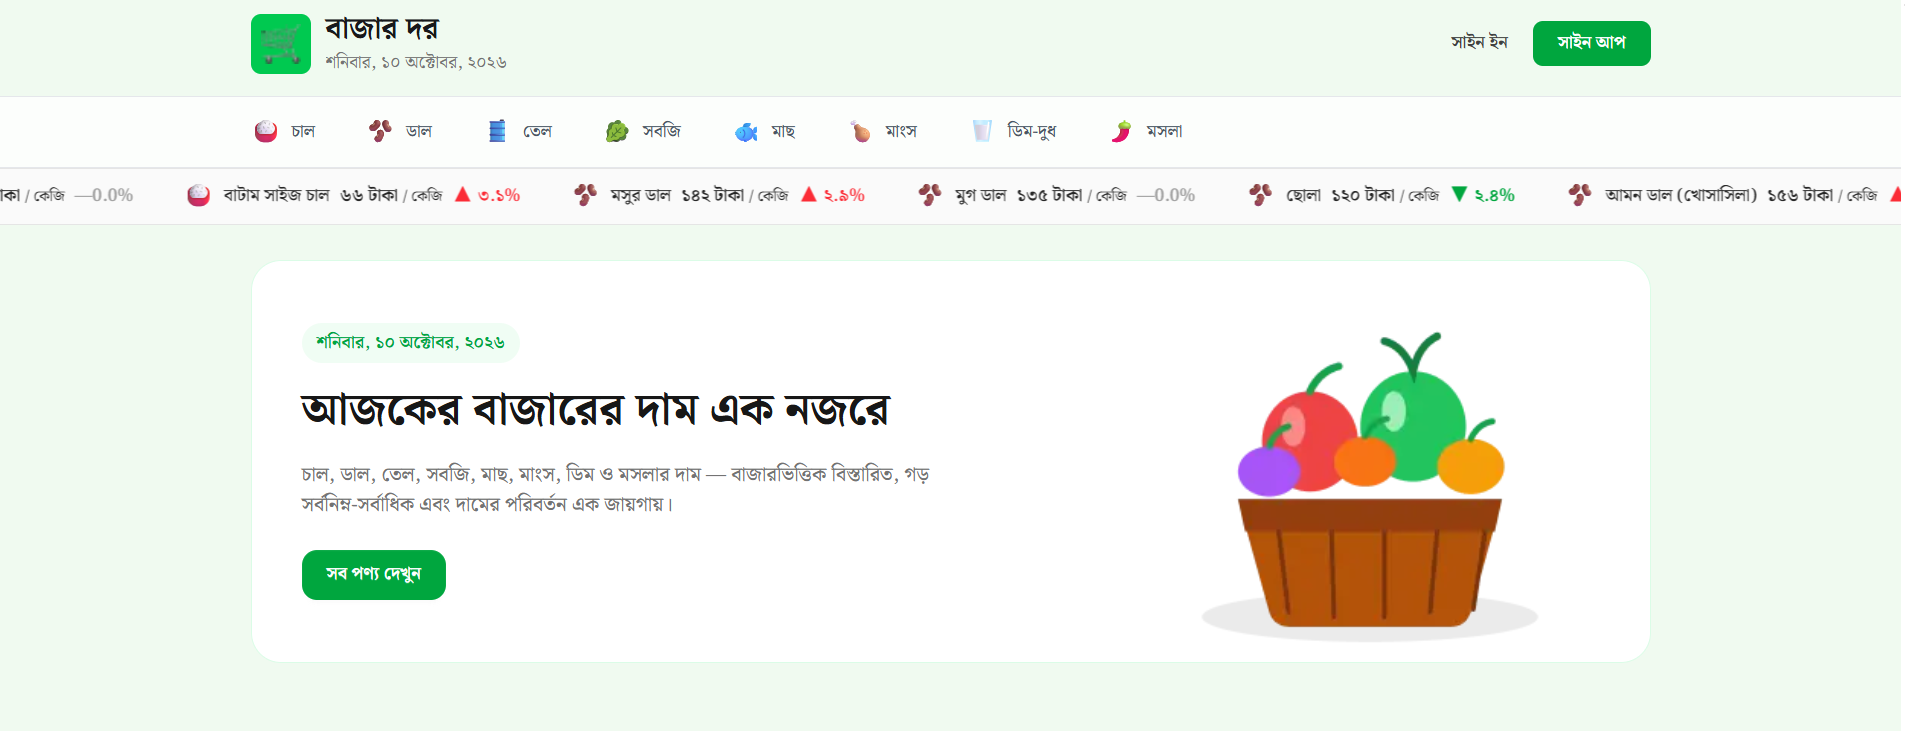
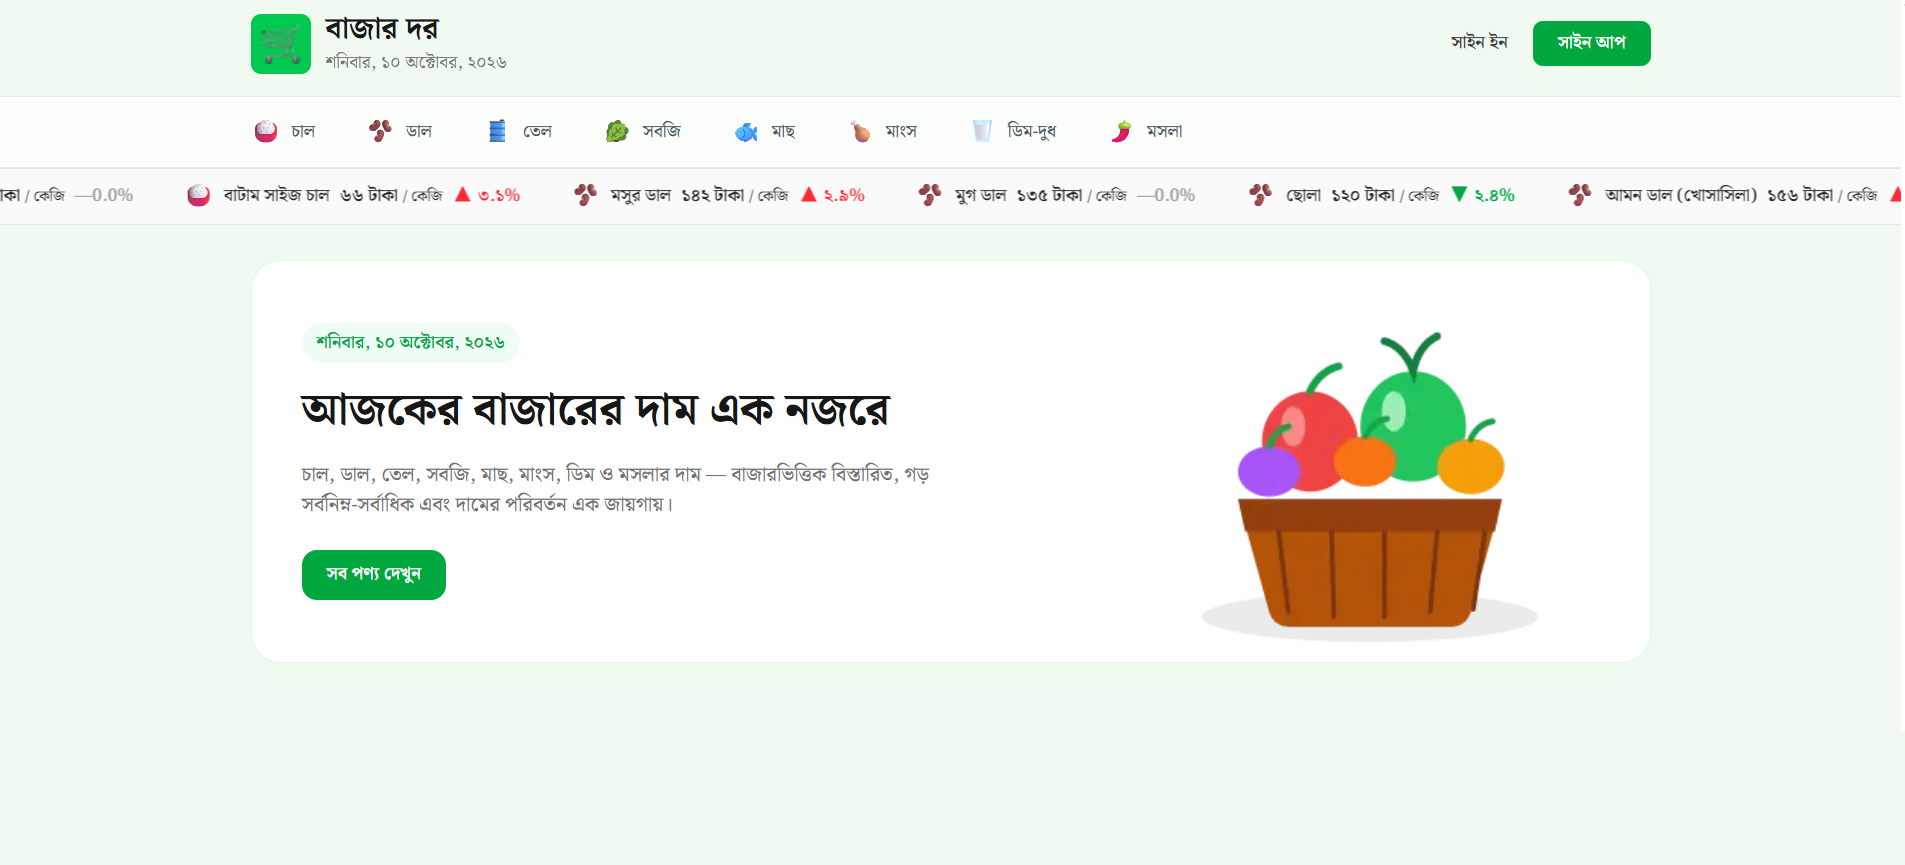
feat: harmonize background across all sections and align project card contents horizontally

diff --git a/src/app/layout.tsx b/src/app/layout.tsx
@@ -123,19 +123,22 @@ export default function RootLayout({
           <div className="absolute inset-0 bg-grid-tech" />
 
           {/* Secondary wide blueprint accent grid */}
-          <div className="absolute inset-0 bg-grid-fine opacity-80" />
+          <div className="absolute inset-0 bg-grid-fine opacity-90" />
 
           {/* Top Hero ambient radial flare */}
           <div className="absolute -top-36 left-1/2 -translate-x-1/2 w-[850px] h-[520px] bg-gradient-to-b from-blue/25 via-soft-blue/10 to-transparent blur-[120px] rounded-full" />
 
-          {/* Mid-page deep ambient glow spot (left) */}
-          <div className="absolute top-[38%] -left-48 w-[600px] h-[600px] bg-blue/[0.08] rounded-full blur-[140px]" />
+          {/* Mid-upper deep ambient glow spot (left) */}
+          <div className="absolute top-[28%] -left-48 w-[600px] h-[600px] bg-blue/[0.09] rounded-full blur-[140px]" />
 
-          {/* Lower-page deep ambient glow spot (right) */}
-          <div className="absolute top-[72%] -right-48 w-[600px] h-[600px] bg-soft-blue/[0.07] rounded-full blur-[140px]" />
+          {/* Mid-lower deep ambient glow spot (right) */}
+          <div className="absolute top-[60%] -right-48 w-[650px] h-[650px] bg-soft-blue/[0.08] rounded-full blur-[140px]" />
+
+          {/* Lower deep ambient glow spot (bottom center) */}
+          <div className="absolute -bottom-24 left-1/2 -translate-x-1/2 w-[700px] h-[400px] bg-gradient-to-t from-blue/15 via-soft-blue/5 to-transparent blur-[120px] rounded-full" />
 
           {/* Subtle perimeter vignette for depth */}
-          <div className="absolute inset-0 bg-[radial-gradient(ellipse_at_center,transparent_15%,rgba(9,9,11,0.65)_100%)]" />
+          <div className="absolute inset-0 bg-[radial-gradient(ellipse_at_center,transparent_20%,rgba(9,9,11,0.6)_100%)]" />
         </div>
 
         {/* Global Fixed Navbar */}

diff --git a/src/components/ImageWithFallback.tsx b/src/components/ImageWithFallback.tsx
@@ -70,10 +70,10 @@ export default function ImageWithFallback({
   // Project variant
   return (
     <div
-      className={`relative w-full overflow-hidden rounded-xl border border-line/70 bg-[#0c0c0f] ${className}`}
+      className={`relative w-full aspect-[2.2/1] overflow-hidden rounded-xl border border-line/70 bg-[#0c0c0f] ${className}`}
     >
       {error ? (
-        <div className="w-full aspect-[2.2/1] flex flex-col items-center justify-center p-6 text-center select-none bg-gradient-to-b from-raised/80 to-surface">
+        <div className="w-full h-full flex flex-col items-center justify-center p-6 text-center select-none bg-gradient-to-b from-raised/80 to-surface">
           <div className="w-12 h-12 rounded-xl bg-surface border border-line flex items-center justify-center text-soft-blue/70 mb-3 shadow-inner">
             <HiOutlinePhoto className="w-6 h-6" />
           </div>
@@ -93,11 +93,10 @@ export default function ImageWithFallback({
         <Image
           src={src}
           alt={alt}
-          width={1920}
-          height={860}
+          fill
           priority={priority}
           sizes={sizes}
-          className="w-full h-auto block object-cover object-top transition-transform duration-500 group-hover:scale-[1.01]"
+          className="object-cover object-top transition-transform duration-500 group-hover:scale-[1.01]"
           onError={() => setError(true)}
         />
       )}

diff --git a/src/components/ProjectCard.tsx b/src/components/ProjectCard.tsx
@@ -103,20 +103,20 @@ export default function ProjectCard({ project, index }: ProjectCardProps) {
           />
         </div>
 
-        {/* Project Title */}
-        <h3 className="font-sora text-lg sm:text-xl md:text-2xl font-bold text-text group-hover:text-white transition-colors mb-2">
+        {/* Project Title - 1-line clamped for uniform alignment */}
+        <h3 className="font-sora text-lg sm:text-xl md:text-2xl font-bold text-text group-hover:text-white transition-colors mb-2 line-clamp-1">
           {project.name}
         </h3>
 
-        {/* 3-line Description Clamp */}
-        <p className="text-xs sm:text-sm text-muted leading-relaxed line-clamp-3 mb-5">
+        {/* 3-line Description Clamp with uniform height */}
+        <p className="text-xs sm:text-sm text-muted leading-relaxed line-clamp-3 h-[3.8rem] sm:h-[4.2rem] mb-5 overflow-hidden">
           {project.description}
         </p>
       </div>
 
       <div>
-        {/* Tech Stack Tags */}
-        <div className="flex flex-wrap gap-1.5 mb-5">
+        {/* Tech Stack Tags - Fixed height container so footer aligns horizontally across cards */}
+        <div className="flex flex-wrap content-start gap-1.5 mb-5 h-[58px] sm:h-[62px] overflow-hidden">
           {visibleTags.map((tech) => (
             <span
               key={tech}

diff --git a/src/app/globals.css b/src/app/globals.css
@@ -100,20 +100,20 @@ body {
 .bg-grid-tech {
   background-size: 38px 38px;
   background-image: 
-    linear-gradient(to right, rgba(255, 255, 255, 0.065) 1px, transparent 1px),
-    linear-gradient(to bottom, rgba(255, 255, 255, 0.065) 1px, transparent 1px);
+    linear-gradient(to right, rgba(255, 255, 255, 0.08) 1px, transparent 1px),
+    linear-gradient(to bottom, rgba(255, 255, 255, 0.08) 1px, transparent 1px);
 }
 
 /* Secondary wide accent grid */
 .bg-grid-fine {
   background-size: 114px 114px;
   background-image: 
-    linear-gradient(to right, rgba(147, 197, 253, 0.09) 1px, transparent 1px),
-    linear-gradient(to bottom, rgba(147, 197, 253, 0.09) 1px, transparent 1px);
+    linear-gradient(to right, rgba(147, 197, 253, 0.12) 1px, transparent 1px),
+    linear-gradient(to bottom, rgba(147, 197, 253, 0.12) 1px, transparent 1px);
 }
 
 /* Subtle dot matrix pattern */
 .bg-dots-pattern {
-  background-image: radial-gradient(rgba(147, 197, 253, 0.16) 1.2px, transparent 1.2px);
+  background-image: radial-gradient(rgba(147, 197, 253, 0.2) 1.2px, transparent 1.2px);
   background-size: 24px 24px;
 }

diff --git a/src/components/Footer.tsx b/src/components/Footer.tsx
@@ -166,7 +166,7 @@ export default function Footer() {
   };
 
   return (
-    <footer className="relative bg-bg border-t border-line pt-16 pb-8 md:pt-20 md:pb-10 overflow-hidden">
+    <footer className="relative border-t border-line pt-16 pb-8 md:pt-20 md:pb-10 overflow-hidden">
       <div className="max-w-[1120px] mx-auto px-6">
         {/* Three Columns: Left Statement, Middle Navigate, Right Connect */}
         <div className="grid grid-cols-1 md:grid-cols-12 gap-10 md:gap-8 pb-12">

diff --git a/src/app/projects/[slug]/page.tsx b/src/app/projects/[slug]/page.tsx
@@ -137,7 +137,7 @@ export default async function ProjectDetailPage({ params }: PageProps) {
               alt={project.name}
               fallbackTitle={project.name}
               expectedPath={`public${project.image}`}
-              aspectRatioClass="aspect-video"
+              aspectRatioClass="aspect-[2.2/1]"
               priority
               sizes="(max-width: 1024px) 100vw, 560px"
             />

diff --git a/src/components/Skills.tsx b/src/components/Skills.tsx
@@ -146,7 +146,7 @@ export default function Skills() {
   return (
     <section
       id="skills"
-      className="py-20 md:py-28 bg-surface/85 backdrop-blur-sm border-y border-line relative overflow-hidden"
+      className="py-20 md:py-28 relative overflow-hidden"
     >
       <div className="max-w-[1120px] mx-auto px-6">
         <SectionHeading

diff --git a/src/components/About.tsx b/src/components/About.tsx
@@ -73,7 +73,7 @@ export default function About() {
   return (
     <section
       id="about"
-      className="py-20 md:py-28 bg-surface/85 backdrop-blur-sm border-y border-line relative"
+      className="py-20 md:py-28 relative"
     >
       <div className="max-w-[1120px] mx-auto px-6">
         {/* Section Heading */}

diff --git a/src/components/Contact.tsx b/src/components/Contact.tsx
@@ -186,7 +186,7 @@ export default function Contact() {
   return (
     <section
       id="contact"
-      className="py-20 md:py-28 bg-surface/85 backdrop-blur-sm border-y border-line relative"
+      className="py-20 md:py-28 relative"
     >
       <div className="max-w-[1120px] mx-auto px-6">
         <SectionHeading
